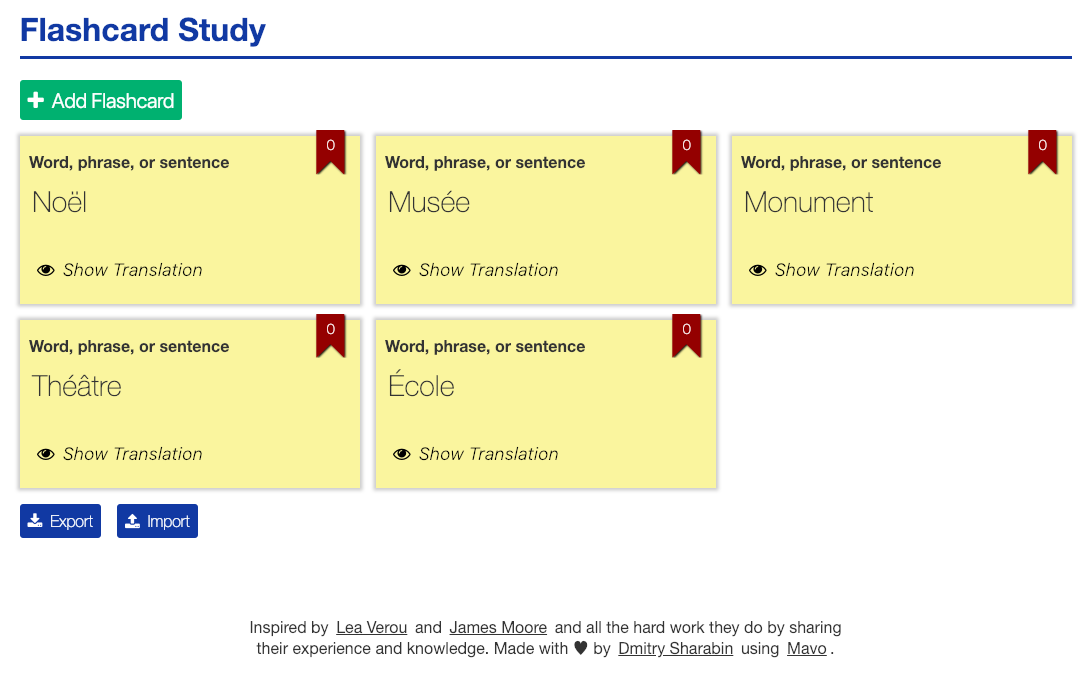
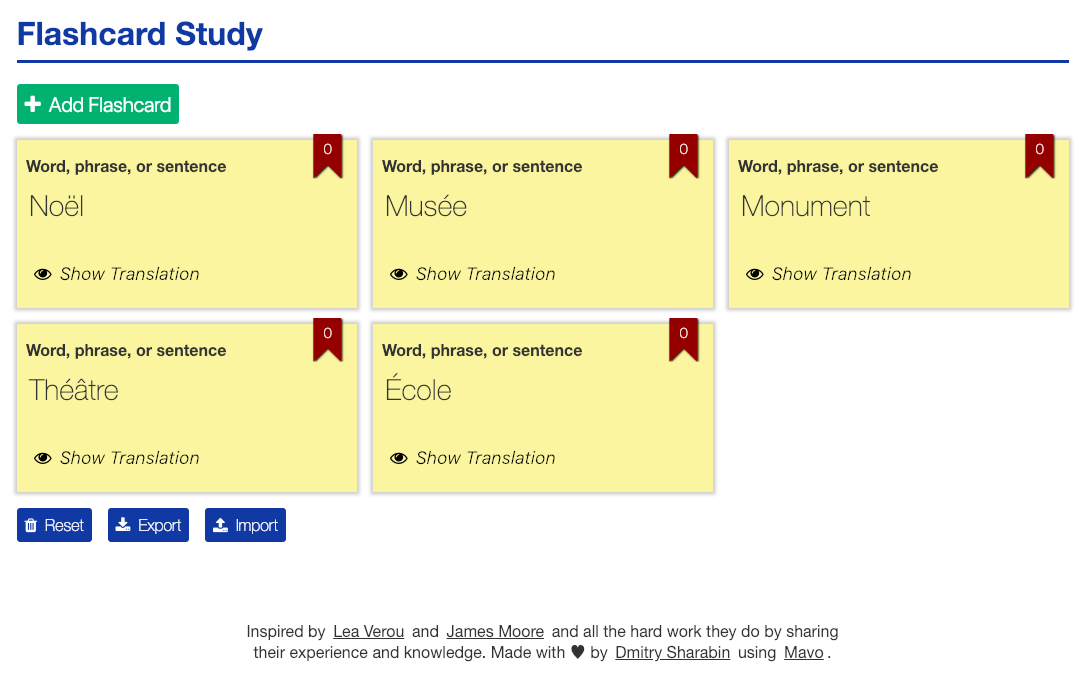
docs: Update screenshots and corresponding text

diff --git a/README.md b/README.md
@@ -1,6 +1,6 @@
 # Mavo Flashcard Study App
 
-![Flashcard Study App|1092x680, 50%](./images/1.png)
+![Flashcard Study App|1080x688, 50%](./images/1.png)
 
 ## Features
 
@@ -16,9 +16,10 @@
 
 ![Delete and Rearrange Flashcards|103x31, 100%](./images/5.png)
 
+- Delete all Flashcards.
 - Import and Export Flashcards.
 
-![Import and Export Flashcards|196x45, 100%](./images/6.png)
+![Import and Export Flashcards, Delete all Flashcards|286x48, 100%](./images/6.png)
 
 - Translation shown when requested.
 
